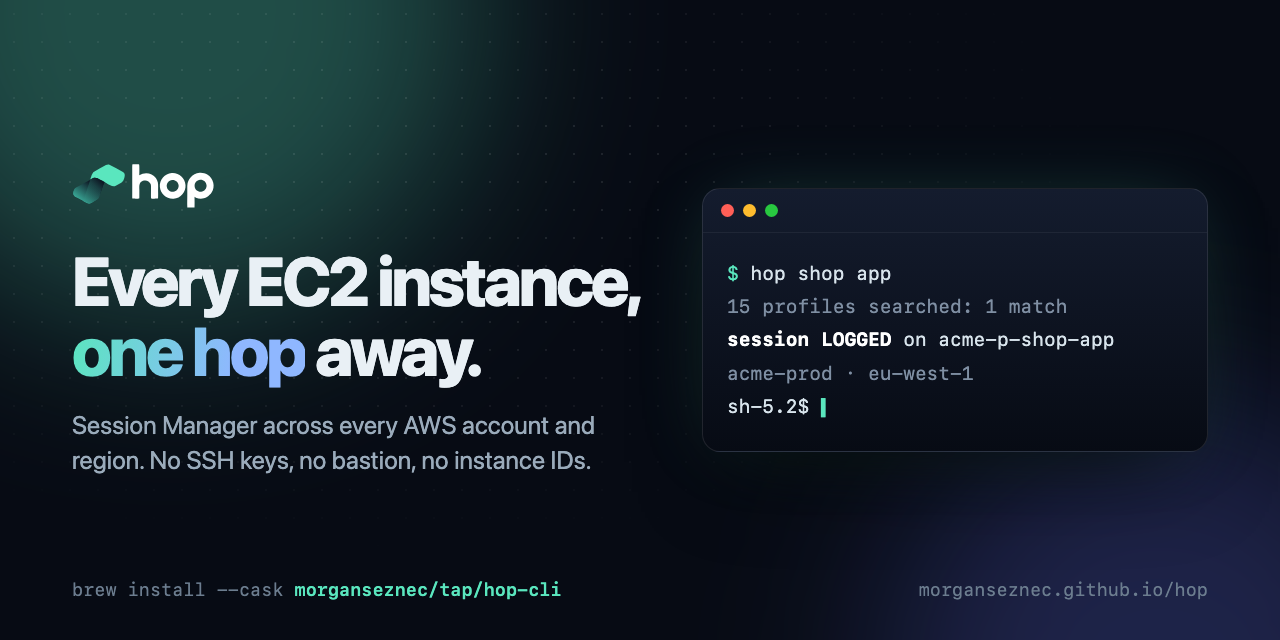
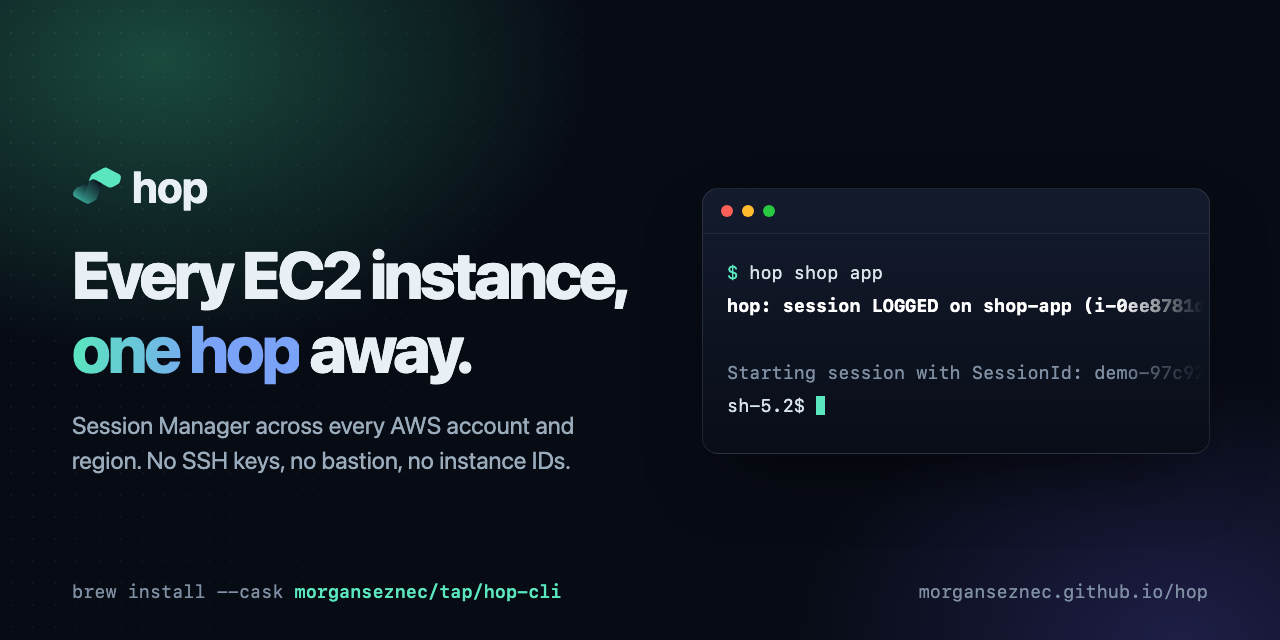
docs(site): link preview image with real hop output (#23)
The terminal in the link preview image showed "15 profiles searched: 1 match", a
line hop never prints. It now shows the session of the demo: hop shop app, the
session LOGGED banner and the shell. The meta tags ask for og.png?v=2 so that the
networks that cached the old image fetch the new one.

diff --git a/site/index.html b/site/index.html
@@ -11,12 +11,12 @@
 <meta property="og:description" content="Every AWS account, every instance, one command. Session Manager without the ceremony.">
 <meta property="og:url" content="https://morganseznec.github.io/hop/">
 <meta property="og:type" content="website">
-<meta property="og:image" content="https://morganseznec.github.io/hop/og.png">
+<meta property="og:image" content="https://morganseznec.github.io/hop/og.png?v=2">
 <meta property="og:image:width" content="1280">
 <meta property="og:image:height" content="640">
 <meta property="og:image:alt" content="hop: every EC2 instance, one hop away">
 <meta name="twitter:card" content="summary_large_image">
-<meta name="twitter:image" content="https://morganseznec.github.io/hop/og.png">
+<meta name="twitter:image" content="https://morganseznec.github.io/hop/og.png?v=2">
 <link rel="icon" href="logo-mark.svg" type="image/svg+xml">
 <style>
 :root {
